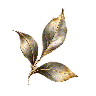
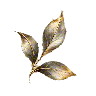
Keep all leaf decoration fully inside frames; use new leaf artwork; taller footer vine

Changed region(s): [[0.125, 0.0625, 0.8125, 0.9062]]

diff --git a/src/components/Footer.jsx b/src/components/Footer.jsx
@@ -9,12 +9,12 @@ const VINE = Array.from({ length: 14 }, (_, i) => ({ x: 60 + i * 80, up: i % 2 =
 /** A vine that grows along the top of the footer, leaf by leaf. */
 function Vine() {
   return (
-    <svg className="footer__vine" viewBox="0 0 1200 44" preserveAspectRatio="xMidYMid slice" aria-hidden="true">
-      <motion.path d="M0 22 C100 6 180 38 300 22 S500 6 600 22 S800 38 900 22 S1100 6 1200 22" fill="none" stroke="var(--sun)" strokeWidth="1.4" strokeLinecap="round" initial={{ pathLength: 0 }} whileInView={{ pathLength: 1 }} viewport={{ once: true, margin: '-40px' }} transition={{ duration: 2.4, ease: [0.22, 1, 0.36, 1] }} />
+    <svg className="footer__vine" viewBox="0 0 1200 84" preserveAspectRatio="xMidYMid slice" aria-hidden="true">
+      <g transform="translate(0 20)"><motion.path d="M0 22 C100 6 180 38 300 22 S500 6 600 22 S800 38 900 22 S1100 6 1200 22" fill="none" stroke="var(--sun)" strokeWidth="1.4" strokeLinecap="round" initial={{ pathLength: 0 }} whileInView={{ pathLength: 1 }} viewport={{ once: true, margin: '-40px' }} transition={{ duration: 2.4, ease: [0.22, 1, 0.36, 1] }} />
       {VINE.map((l, i) => (
         <g key={i} transform={`translate(${l.x} ${l.up ? 14 : 30})`}>
           <motion.g style={{ transformBox: 'fill-box', transformOrigin: 'center' }} initial={{ scale: 0, rotate: -90 }} whileInView={{ scale: 1, rotate: 0 }} viewport={{ once: true, margin: '-40px' }} transition={{ type: 'spring', stiffness: 130, damping: 11, delay: 0.5 + i * 0.13 }}>
-            <Blossom variant={i % 2 ? 'gold' : 'olive'} size={34} x={-17} y={-17} />
+            <Blossom variant={i % 3 === 0 ? 'pair' : i % 3 === 1 ? 'gold' : 'olive'} size={34} x={-17} y={-17} />
           </motion.g>
         </g>
       ))}
@@ -25,6 +25,7 @@ function Vine() {
           </motion.g>
         </g>
       ))}
+    </g>
     </svg>
   );
 }

diff --git a/src/components/Flora.jsx b/src/components/Flora.jsx
@@ -2,7 +2,7 @@
 // baked from the vector source in FloraArt.jsx so the browser only moves flat pictures (cheap) instead of painting hundreds of shapes.
 const MIRROR = { tl: 'none', tr: 'scaleX(-1)', br: 'scale(-1,-1)', bl: 'scaleY(-1)' };
 const ORIGIN = { tl: '0 0', tr: '100% 0', br: '100% 100%', bl: '0 100%' };
-const V = '8'; // bump when the baked art changes (the server caches images for a year)
+const V = '9'; // bump when the baked art changes (the server caches images for a year)
 const LAYERS = [[`/decor/flora-1.png?v=${V}`, 0], [`/decor/flora-2.png?v=${V}`, 0.5], [`/decor/flora-3.png?v=${V}`, 1]];
 
 /** A bouquet for a frame or section corner. Layers bloom in turn (CSS) once `on`, then the bouquet sways. */
@@ -23,7 +23,7 @@ export function GarlandBlossom({ index = 0, size = 18 }) {
 }
 
 // Small leaf sprig (the supplied olive / gold leaf artwork) for the footer vine, ribbon and frame corners.
-// `variant` is 'olive' or 'gold'. Kept under the name Blossom so existing callers keep working.
+// `variant` is 'olive', 'gold' or 'pair' (the two-leaf mark). Kept under the name Blossom so existing callers keep working.
 export function Blossom({ variant = 'olive', size = 18, className = '', x, y, style }) {
   return (
     <svg viewBox="0 0 100 100" width={size} height={size} x={x} y={y} className={className} style={style} aria-hidden="true">
@@ -31,4 +31,4 @@ export function Blossom({ variant = 'olive', size = 18, className = '', x, y, st
     </svg>
   );
 }
-export const BLOSSOM_VARIANTS = ['olive', 'gold', 'olive', 'gold', 'gold'];
+export const BLOSSOM_VARIANTS = ['pair', 'gold', 'olive', 'pair', 'gold'];

diff --git a/src/components/Ambient.jsx b/src/components/Ambient.jsx
@@ -52,8 +52,8 @@ export default function SectionDecor({ tone = 'light' }) {
       {tone === 'dark' ? (
         <>
           {SPOTS.map((p, i) => <span key={i} className="ambient__spot" style={{ left: `${p.x}%`, top: `${p.y}%`, width: p.s, height: p.s, animationDuration: `${p.d}s` }} />)}
-          <Flora corner="tr" size={150} offset={-34} on={live} className="flora--edge" />
-          <Flora corner="bl" size={150} offset={-34} on={live} delay={0.4} className="flora--edge flora--edge-br" />
+          <Flora corner="tr" size={150} offset={6} on={live} className="flora--edge" />
+          <Flora corner="bl" size={150} offset={6} on={live} delay={0.4} className="flora--edge flora--edge-br" />
           {live && <Petals />}
           {live && FALL.filter((_, i) => i % 3 !== 2).map((l, i) => (
             <Blossom key={i} className="ambient__leaf ambient__flower" variant={i % 2 ? 'gold' : 'olive'} size={l.s + 30} style={{ left: `${l.x}%`, '--dx': `${l.dx}px`, '--r': `${l.r}deg`, animationDuration: `${l.d}s`, animationDelay: `${l.t}s` }} />
@@ -61,8 +61,8 @@ export default function SectionDecor({ tone = 'light' }) {
         </>
       ) : (
         <>
-          <Flora corner="tl" size={160} offset={-38} on={live} className="flora--edge" />
-          <Flora corner="br" size={160} offset={-38} on={live} delay={0.4} className="flora--edge flora--edge-br" />
+          <Flora corner="tl" size={160} offset={6} on={live} className="flora--edge" />
+          <Flora corner="br" size={160} offset={6} on={live} delay={0.4} className="flora--edge flora--edge-br" />
           {live && <Petals />}
         </>
       )}

diff --git a/src/components/DecorFrame.jsx b/src/components/DecorFrame.jsx
@@ -77,7 +77,7 @@ export default function DecorFrame({ inset = 12, radii = [2, 2, 2, 2], corners =
     for (let i = 0; i < nx; i += 1) { const x = margin + ((w - margin * 2) * (i + 0.5)) / nx; spots.push({ x, y: 0 }, { x, y: h }); }
     for (let i = 0; i < ny; i += 1) { const y = margin + ((h - margin * 2) * (i + 0.5)) / ny; spots.push({ x: 0, y }, { x: w, y }); }
   }
-  const floraOffset = inset < 0 ? -10 : -8;
+  const floraOffset = 2;
   const on = inView || !!reduce;
   const line = (d, inner) => (reduce ? { duration: 0 } : { duration: inner ? 1.7 : 1.5, delay: d, ease: EASE });
 
@@ -116,7 +116,7 @@ export default function DecorFrame({ inset = 12, radii = [2, 2, 2, 2], corners =
           )}
         </svg>
       )}
-      {big && corners.filter((c) => !flora.includes(c) && !floraSmall.includes(c)).map((c) => <Sprig key={`${c}-${replayKey}`} corner={c} size={size} offset={-6} on={on} delay={delay + 1.1} reduce={reduce} />)}
+      {big && corners.filter((c) => !flora.includes(c) && !floraSmall.includes(c)).map((c) => <Sprig key={`${c}-${replayKey}`} corner={c} size={size} offset={4} on={on} delay={delay + 1.1} reduce={reduce} />)}
       {big && spots.slice(0, 26).map((p, i) => (
         <span key={`g${i}`} className="decor-garland" style={{ left: p.x, top: p.y, '--d': `${delay + 1.5 + i * 0.045}s` }}>
           <span>{i % 3 === 2 ? <i className="decor-garland__dot" /> : <GarlandBlossom index={i} size={i % 2 ? 24 : 30} />}</span>

diff --git a/src/styles.css b/src/styles.css
@@ -520,7 +520,7 @@ body { background: radial-gradient(900px 520px at 100% -8%, rgba(212, 175, 55, .
 .section--moss { background: radial-gradient(70% 90% at 100% 0%, rgba(212, 175, 55, .22), transparent 62%), linear-gradient(160deg, #4B6B46, var(--moss) 50%, #2F4730); }
 .page-hero.on-dark, .page-hero--dark { background-image: radial-gradient(60% 90% at 90% 0%, rgba(74, 91, 39, .5), transparent 64%), radial-gradient(40% 60% at 0% 100%, rgba(212, 175, 55, .14), transparent 62%); }
 .footer { position: relative; background: radial-gradient(60% 100% at 50% 0%, rgba(212, 175, 55, .10), transparent 70%), var(--ink-2); }
-.footer__vine { display: block; width: 100%; height: 44px; margin-top: -1px; }
+.footer__vine { display: block; width: 100%; height: 84px; margin-top: -1px; }
 
 .has-ambient { position: relative; }
 .ambient { position: absolute; inset: 0; overflow: hidden; pointer-events: none; z-index: 1; }
